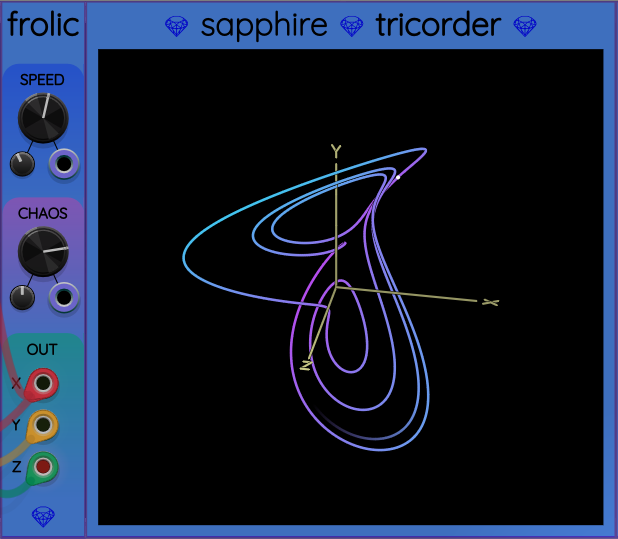
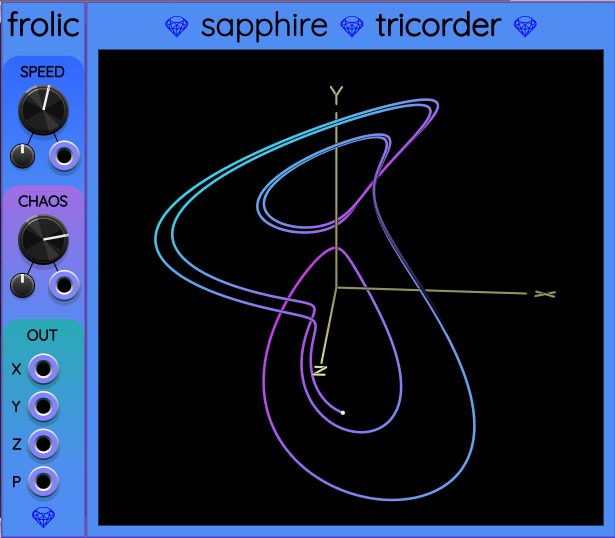
Documentation fixes/improvements. Updated screenshots.

diff --git a/README.md b/README.md
@@ -11,7 +11,7 @@ The latest release of the Sapphire plugin is available in the
 A complex sound generator that simulates the physics of a
 hexagonal mesh of balls and springs.
 
-Read the complete <a href="Elastika.md">Sapphire Elastika documentation</a>.
+<a href="Elastika.md">Sapphire Elastika documentation</a>
 
 <a href="Elastika.md"><img src="images/elastika.png" /></a>
 
@@ -22,7 +22,7 @@ Read the complete <a href="Elastika.md">Sapphire Elastika documentation</a>.
 A low-frequency and ultra-low-frequency chaotic oscillator
 for generating 3 simultaneous smooth but unpredictable voltages.
 
-Read the complete <a href="Frolic.md">Sapphire Frolic documentation</a>.
+<a href="Frolic.md">Sapphire Frolic documentation</a>
 
 <a href="Frolic.md"><img src="images/frolic.png"/></a>
 
@@ -33,7 +33,7 @@ Read the complete <a href="Frolic.md">Sapphire Frolic documentation</a>.
 Another low-frequency and ultra-low-frequency chaotic oscillator
 for generating 3 simultaneous smooth but unpredictable voltages.
 
-Read the complete <a href="Glee.md">Sapphire Glee documentation</a>.
+<a href="Glee.md">Sapphire Glee documentation</a>
 
 <a href="Glee.md"><img src="images/glee.png"/></a>
 
@@ -43,7 +43,7 @@ Read the complete <a href="Glee.md">Sapphire Glee documentation</a>.
 
 A random vector generator whose outputs point in all directions of an N-dimensional space with equal probability. Useful for generating vector noise input to physics simulations like Nucleus.
 
-Read the complete <a href="Hiss.md">Sapphire Hiss documentation</a>.
+<a href="Hiss.md">Sapphire Hiss documentation</a>
 
 <a href="Hiss.md"><img src="images/hiss.png"/></a>
 
@@ -54,7 +54,7 @@ Read the complete <a href="Hiss.md">Sapphire Hiss documentation</a>.
 Simulates plugging/unplugging cables,
 which is sometimes different from setting their voltages to 0.
 
-Read the complete <a href="Moots.md">Sapphire Moots documentation</a>.
+<a href="Moots.md">Sapphire Moots documentation</a>
 
 <a href="Moots.md"><img src="images/moots.png" /></a>
 
@@ -65,7 +65,7 @@ Read the complete <a href="Moots.md">Sapphire Moots documentation</a>.
 A simulation of five particles obeying alternative laws of physics.
 The output can be used for control voltages or audio signals.
 
-Read the complete <a href="Nucleus.md">Sapphire Nucleus documentation</a>.
+<a href="Nucleus.md">Sapphire Nucleus documentation</a>
 
 <a href="Nucleus.md"><img src="images/nucleus.png" /></a>
 
@@ -75,7 +75,8 @@ Read the complete <a href="Nucleus.md">Sapphire Nucleus documentation</a>.
 
 Just like Nucleus, only with a single polyphonic port
 for each particle instead of 3 monophonic ports.
-Read the complete <a href="Polynucleus.md">Sapphire Polynucleus documentation</a>.
+
+<a href="Polynucleus.md">Sapphire Polynucleus documentation</a>
 
 <a href="Polynucleus.md"><img src="images/polynucleus.png" /></a>
 
@@ -85,7 +86,7 @@ Read the complete <a href="Polynucleus.md">Sapphire Polynucleus documentation</a
 
 An alterative input module for feeding data into Tricorder.
 
-Read the complete <a href="Tin.md">Sapphire Tin documentation</a>.
+<a href="Tin.md">Sapphire Tin documentation</a>
 
 <a href="Tin.md"><img src="images/tin.png" /></a>
 
@@ -95,7 +96,7 @@ Read the complete <a href="Tin.md">Sapphire Tin documentation</a>.
 
 A utility for extracting vector data from Tricorder as output ports.
 
-Read the complete <a href="Tout.md">Sapphire Tout documentation</a>.
+<a href="Tout.md">Sapphire Tout documentation</a>
 
 <a href="Tout.md"><img src="images/tout.png" /></a>
 
@@ -103,9 +104,9 @@ Read the complete <a href="Tout.md">Sapphire Tout documentation</a>.
 
 ## Tricorder
 
-A 3D oscilloscope designed for Frolic, Glee, and Tin.
+A 3D oscilloscope designed for Frolic, Glee, and other 3D signals.
 
-Read the complete <a href="Tricorder.md">Sapphire Tricorder documentation</a>.
+<a href="Tricorder.md">Sapphire Tricorder documentation</a>
 
 <a href="Tricorder.md"><img src="images/tricorder.png" /></a>
 
@@ -115,7 +116,7 @@ Read the complete <a href="Tricorder.md">Sapphire Tricorder documentation</a>.
 
 A complex tubular waveguide synthesizer.
 
-Read the complete <a href="TubeUnit.md">Sapphire Tube Unit documentation</a>.
+<a href="TubeUnit.md">Sapphire Tube Unit documentation</a>
 
 <a href="TubeUnit.md"><img src="images/tubeunit.png" /></a>
 

diff --git a/Tricorder.md b/Tricorder.md
@@ -9,10 +9,13 @@ Tricorder was designed specifically as an expander module
 for [Frolic](Frolic.md) and [Glee](Glee.md), but it also allows graphing
 any three input voltages you want, using [Tin](Tin.md)
 instead of Frolic to the left of Tricorder.
+[Nucleus](Nucleus.md) and [Polynucleus](Polynucleus.md) also
+allow the user to select any of the 4 output particles to
+be graphed by Tricorder.
 
-You can also send output from any of the four output vectors
-from [Nucleus](Nucleus.md) into Tricorder, and a Tricoder will
-chain output to another Tricorder connected to its right.
+Tricorder sends any vector it receives from the left to the module on its right.
+Thus you can form chains of vector streams through multiple compatible
+Sapphire modules.
 
 In general, Tricorder is useful for visually understanding the behavior
 of Frolic, Glee, or any other 3D system of voltages.

diff --git a/Polynucleus.md b/Polynucleus.md
@@ -2,9 +2,13 @@
 
 ![Polynucleus](images/polynucleus.png)
 
-Polynucleus is an alternative version of [Nucleus.md],
+Polynucleus is an alternative version of [Nucleus](Nucleus.md),
 only with individual 3-channel polyphonic ports for input and output,
 rather than triplets of monophonic ports.
 
 Polynucleus is intended to be more convenient for workflows
 oriented toward vectors and matrices.
+
+---
+
+[Sapphire module list](README.md)

diff --git a/Tout.md b/Tout.md
@@ -2,6 +2,8 @@
 
 ![Tout](images/tout.png)
 
+Tout is the inverse of [Tin](Tin.md).
+
 The name Tout stands for "Tricorder OUTput". Tout is an auxiliary output module for [Tricorder](Tricorder.md).
 You can place Tout immediately to the right of a Tricorder to receive a copy of the vector it is graphing, along with a copy of the CLEAR trigger that was sent to ask Tricorder to clear its display.
 

diff --git a/Tin.md b/Tin.md
@@ -2,6 +2,8 @@
 
 ![Tin](images/tin.png)
 
+Tin is the inverse of [Tout](Tout.md).
+
 The name Tin stands for "Tricorder INput". Tin is an auxiliary input module for [Tricorder](Tricorder.md).
 It allows you to feed any 3 voltages you want to be graphed in 3D space by Tricorder.
 
